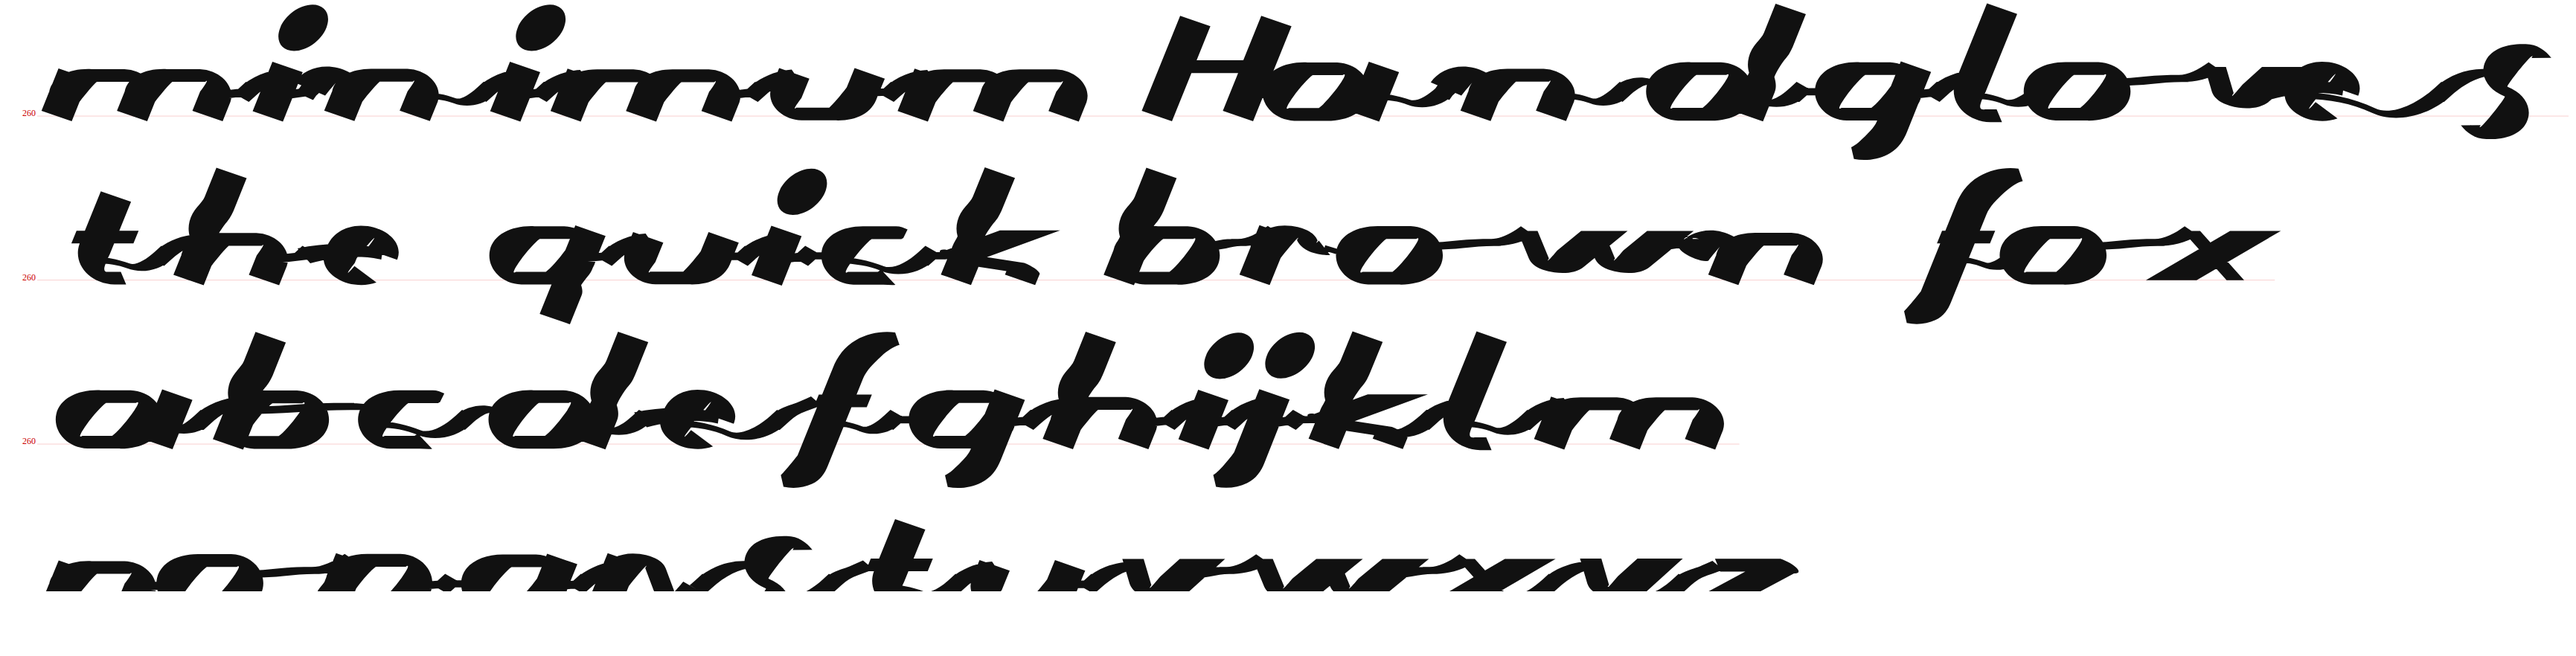
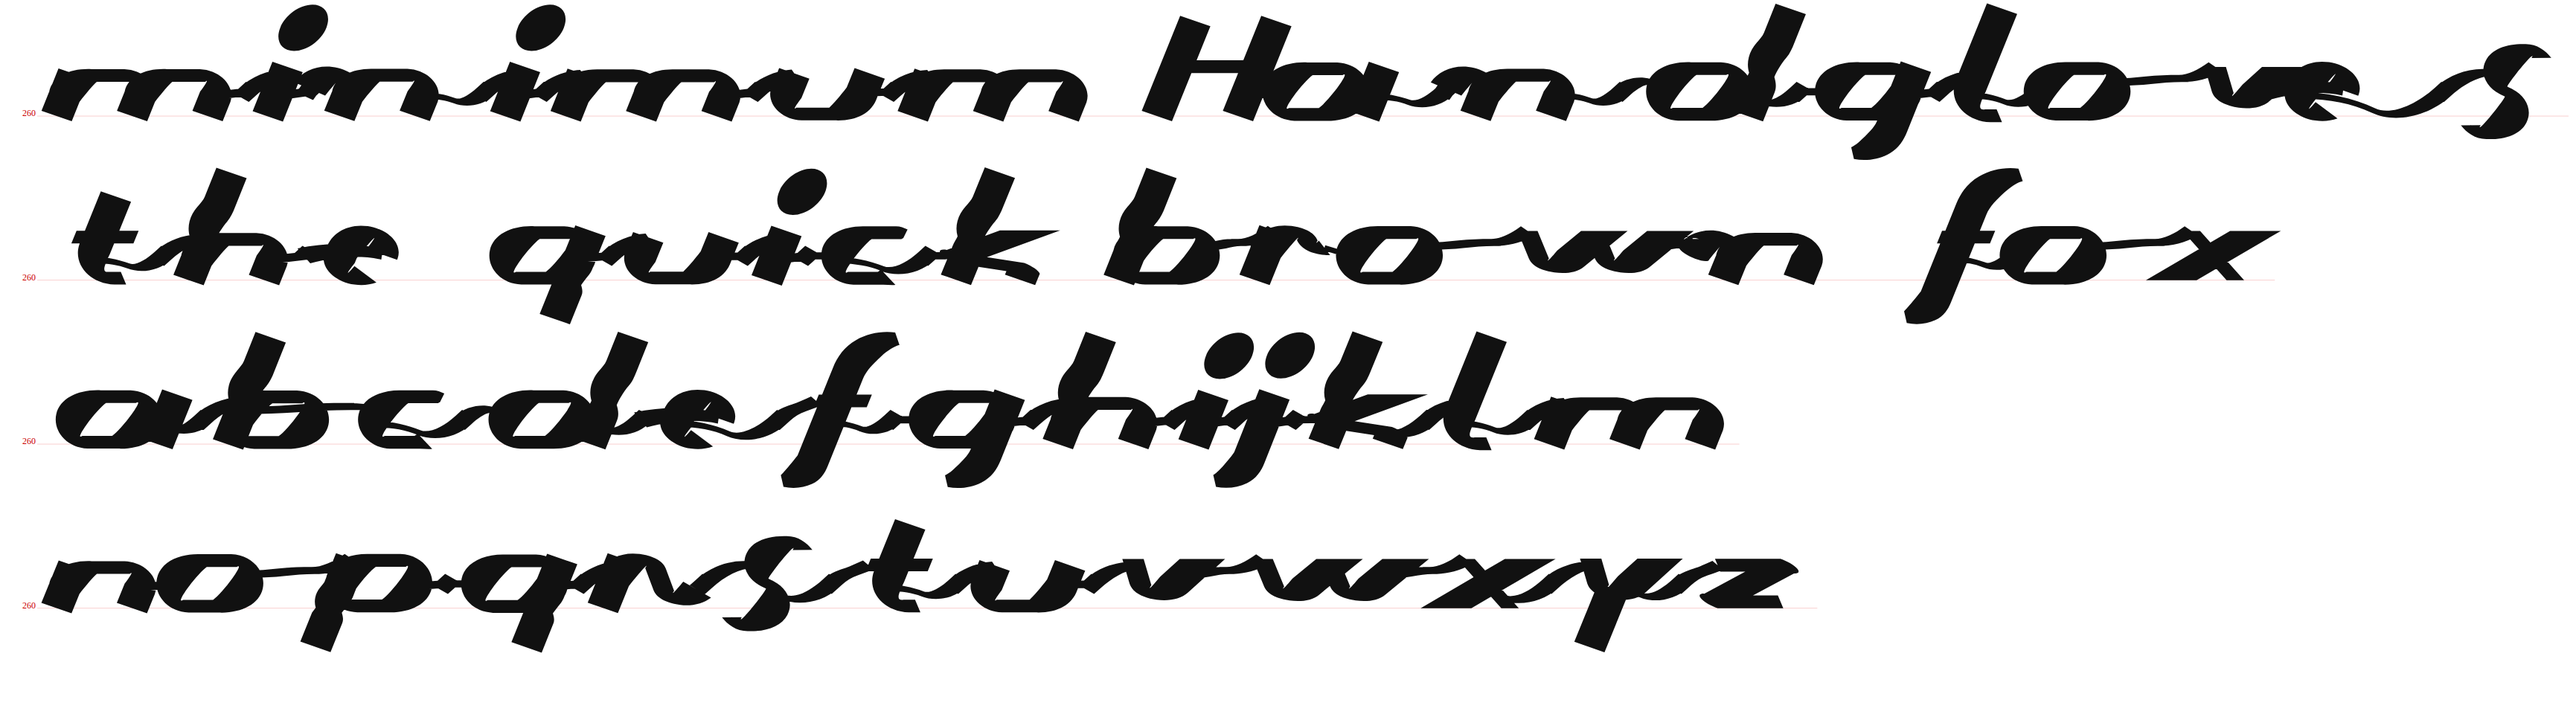
Scripts: before screenshots re-rendered at full height

Changed region(s): [[0.0, 0.0612, 0.9983, 0.9184], [0.0312, 0.2449, 0.156, 0.4286], [0.9671, 0.0612, 0.9983, 0.0918]]

diff --git a/SUMMARY-script.md b/SUMMARY-script.md
@@ -9,8 +9,7 @@ Screenshots of every face at all four weights are in `docs/polish/script/before`
 (the original code) and `docs/polish/script/after` (this branch). Each sheet
 sets "minimum Handgloves", "the quick brown fox" and the lowercase alphabet with
 the font's own joins, including the high hand-over after `o v w b` and the word
-start and end forms. (The before sheets clip the last line; the rendering
-window was too short. The after sheets show it.)
+start and end forms.
 
 ## What was wrong
 
